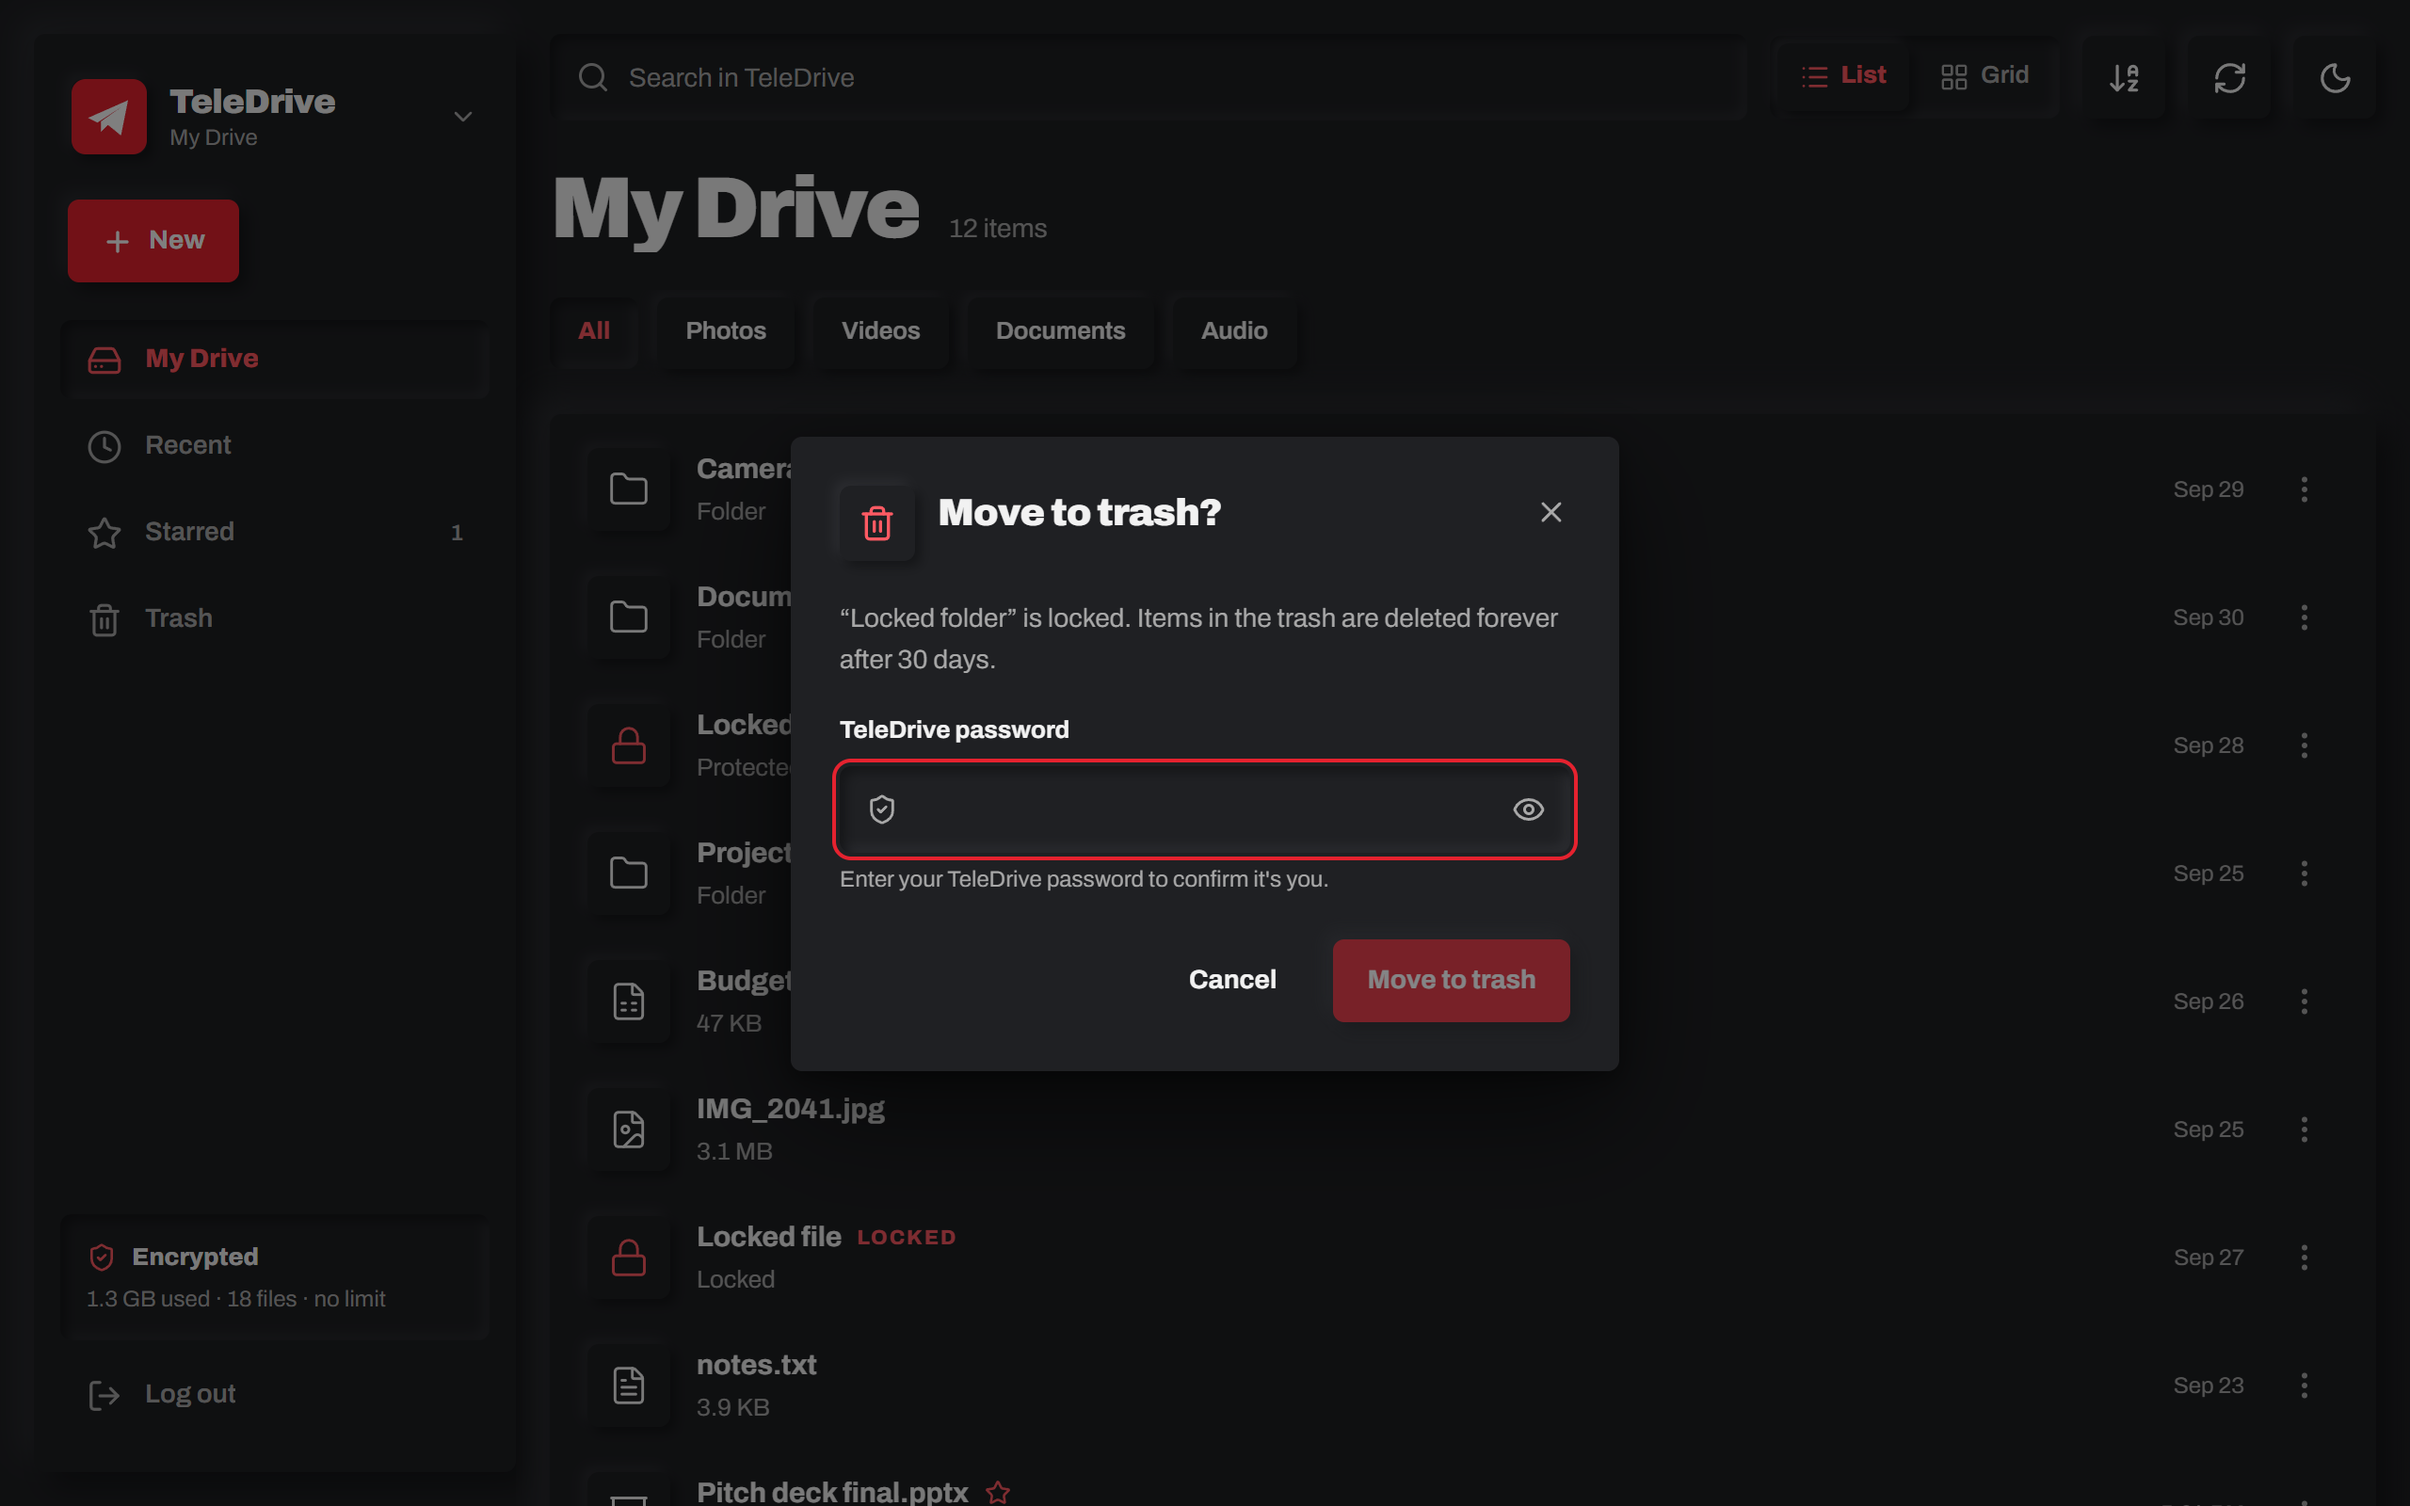
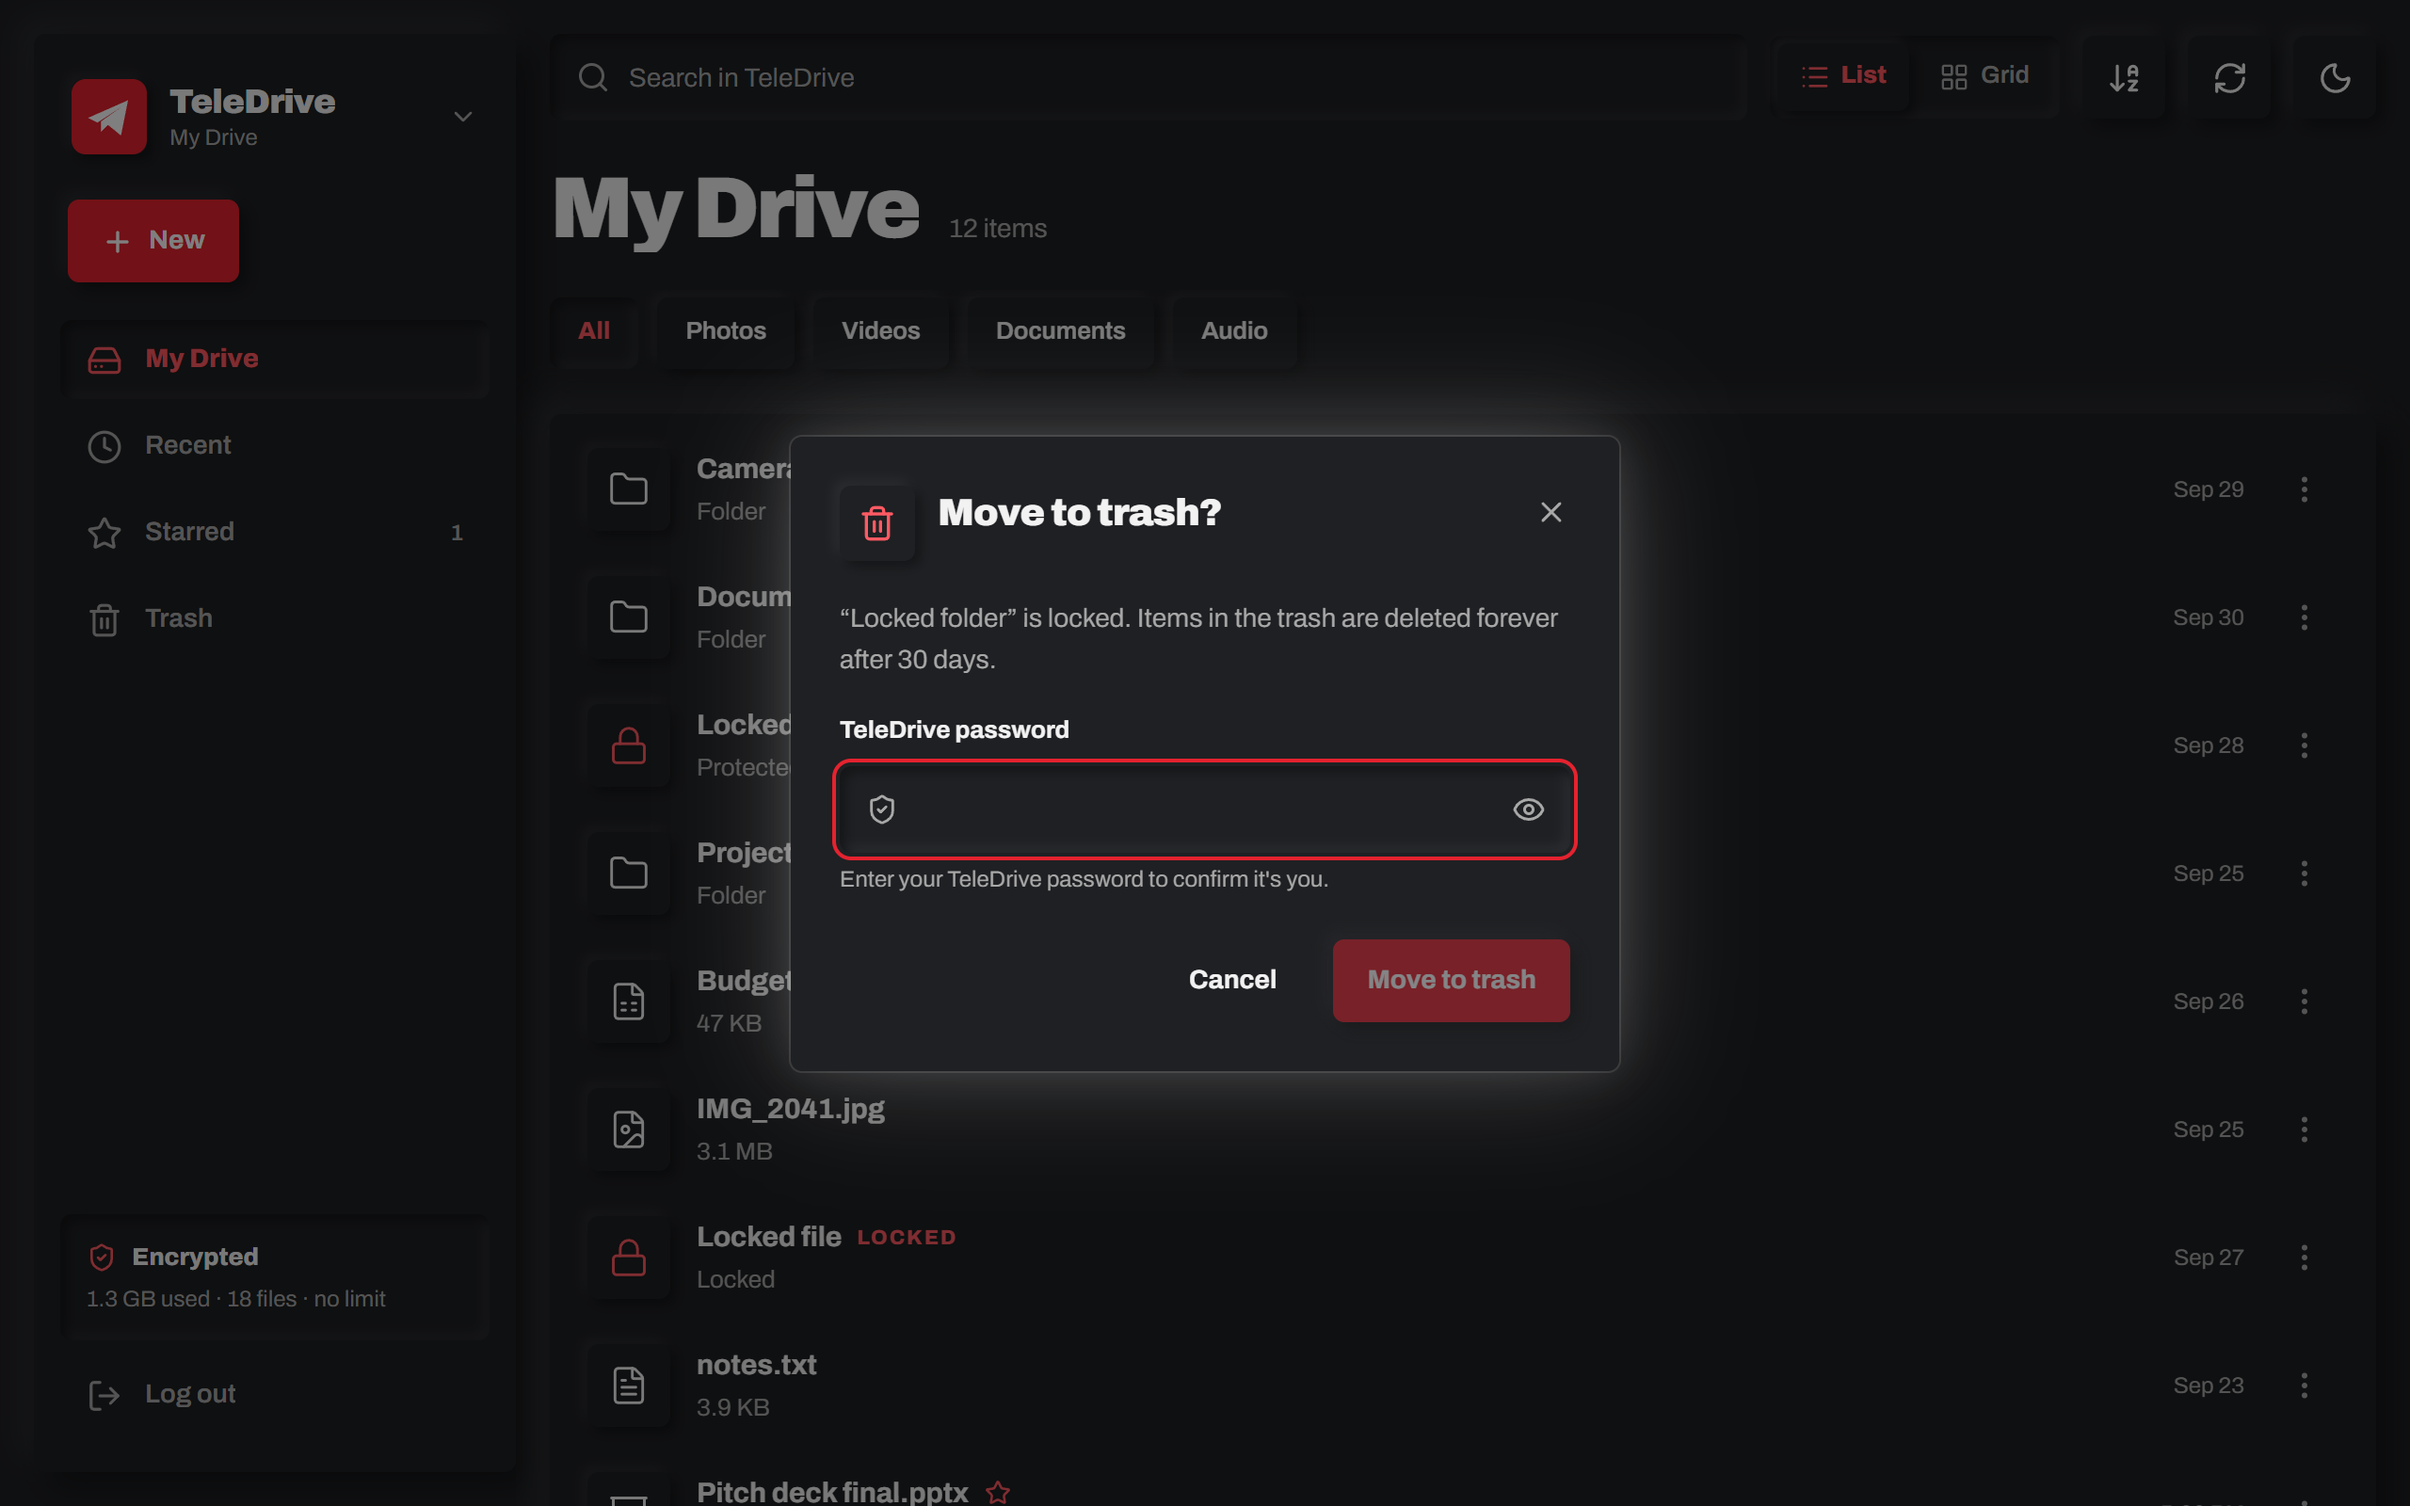
Floating dialogs and menus: dark glow in light theme, light glow in dark theme
Claude-Session: https://claude.ai/code/session_01UyFGSQ7FNrJdkYLnoMSgum

Changed region(s): [[0.3125, 0.25, 0.6875, 0.75]]

diff --git a/src/index.css b/src/index.css
@@ -18,7 +18,7 @@
   --red-strong: #b00117;
   --red-text: #b80218;
   --scrim: rgba(17, 17, 17, 0.28);
-  --float-shadow: 0 24px 60px rgba(17, 17, 17, 0.22), 0 4px 12px rgba(17, 17, 17, 0.1);
+  --float-shadow: 0 0 0 1px rgba(17, 17, 17, 0.08), 0 0 64px rgba(17, 17, 17, 0.55), 0 20px 44px rgba(17, 17, 17, 0.3);
   color-scheme: light;
 }
 :root[data-theme='dark'] {
@@ -32,7 +32,7 @@
   --red-strong: #c81925;
   --red-text: #ff5a63;
   --scrim: rgba(0, 0, 0, 0.5);
-  --float-shadow: 0 24px 60px rgba(0, 0, 0, 0.55), 0 4px 12px rgba(0, 0, 0, 0.35);
+  --float-shadow: 0 0 0 1px rgba(255, 255, 255, 0.1), 0 0 20px rgba(255, 255, 255, 0.1), 0 0 64px rgba(255, 255, 255, 0.22);
   color-scheme: dark;
 }
 
@@ -95,8 +95,8 @@ body {
   box-shadow: inset 5px 5px 10px var(--shadow-dark), inset -5px -5px 10px var(--shadow-light);
 }
 
-/* Things floating above the page (dialogs, menus, drawers): a plain drop shadow. The soft
-   highlight of raised-* would show as a white glow over the darkened page. */
+/* Things floating above the page (dialogs, menus, drawers): a glow all round, dark in the light
+   theme and light in the dark theme, instead of raised-*'s two-sided soft shadow. */
 @utility lift {
   box-shadow: var(--float-shadow);
 }

diff --git a/DESIGN.md b/DESIGN.md
@@ -106,7 +106,7 @@ Every depth is the same formula at a different distance `d`:
 | `raised-md` | 5–6 | Grid cards, toasts, bottom nav, + button |
 | `raised-lg` | 8 | Panels: sidebar, file list, transfers card |
 | `raised-xl` | 10–12 | The sign-in card (on the page) |
-| `lift` | — | **Anything floating above the page** (dialogs, menus, the phone drawer): a plain dark drop shadow, no white highlight, which would glow over the darkened page |
+| `lift` | — | **Anything floating above the page** (dialogs, menus, the phone drawer): a glow all round — dark in the light theme, light in the dark theme — plus a 1 px edge. Not the two-sided soft shadow, whose white side looks wrong over the darkened page |
 | `pressed-xs` | 2 | Progress tracks, selected menu item, sheet handle |
 | `pressed` | 3–4 | Inputs, search, active nav / chip, selected row, storage card |
 | `pressed-lg` | 5 | Empty-state well, locked / folder thumbnails |
